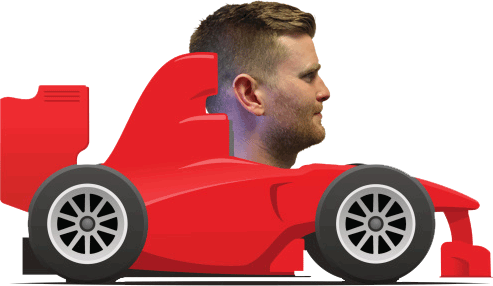
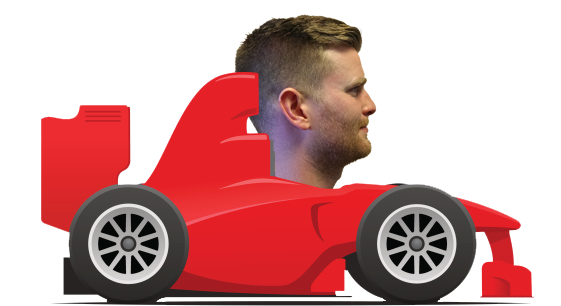
Game
Game and updated imagery.

diff --git a/public/css/styles.css b/public/css/styles.css
@@ -1,1 +1,1 @@
-.headerPlayer,body{background-color:#3c4043}html{font-size:100%}#salesApp{text-align:center;color:#fff;line-height:1}.row{margin-bottom:15px}.headerPlayer{font-family:"Ao Oz"}.headerPlayer h1,.headerPlayer h2{font-weight:600}.headerPlayer .playerName{font-size:60px;font-size:3.75rem;margin-top:-15px;margin-bottom:25px}.headerPlayer .rank{display:inline-block;position:relative;font-size:150px;font-size:9.375rem}.headerPlayer .rank span{font-size:130px;font-size:8.125rem}.headerPlayer .rank .alertIcon{display:block;position:absolute;top:0;right:-55px}.headerPlayer .rank .alertIcon i{position:relative;vertical-align:top;font-size:40px;margin-top:20px;color:#7fba24;cursor:pointer}.headerPlayer .rank .alertIcon i:hover{color:#9ad938}.headerPlayer .rank .alertIcon i #alertCount{position:absolute;width:100%;top:10px;font-family:"Ao Oz";font-size:20px;font-size:1.25rem;font-weight:400;text-align:center;color:inherit}.podTitles{margin-bottom:10px;font-family:arial;font-size:20px;font-size:1.25rem}.largeNumber,.smallNumber{font-family:"Ao Oz";font-weight:600}.largeNumber{font-size:170px;font-size:10.625rem}.smallNumber{margin-bottom:10px;font-size:50px;font-size:3.125rem;text-align:right}.red{background-color:#ef4c4d}.green{background-color:#7fba24}
+.headerPlayer,body{background-color:#3c4043}html{font-size:100%}body{padding:0;margin:0}#salesApp{text-align:center;color:#fff;line-height:1}.row{margin-bottom:15px}.headerPlayer{font-family:"Ao Oz"}.headerPlayer h1,.headerPlayer h2{font-weight:600}.headerPlayer .playerName{font-size:60px;font-size:3.75rem;margin-top:-15px;margin-bottom:25px}.headerPlayer .rank{display:inline-block;position:relative;font-size:150px;font-size:9.375rem}.headerPlayer .rank span{font-size:130px;font-size:8.125rem}.headerPlayer .rank .alertIcon{display:block;position:absolute;top:0;right:-55px}.headerPlayer .rank .alertIcon i{position:relative;vertical-align:top;font-size:40px;margin-top:20px;color:#7fba24;cursor:pointer}.headerPlayer .rank .alertIcon i:hover{color:#9ad938}.headerPlayer .rank .alertIcon i #alertCount{position:absolute;width:100%;top:10px;font-family:"Ao Oz";font-size:20px;font-size:1.25rem;font-weight:400;text-align:center;color:inherit}.podTitles{margin-bottom:10px;font-family:arial;font-size:20px;font-size:1.25rem}.largeNumber,.smallNumber{font-family:"Ao Oz";font-weight:600}.largeNumber{font-size:170px;font-size:10.625rem}.smallNumber{margin-bottom:10px;font-size:50px;font-size:3.125rem;text-align:right}.red{background-color:#ef4c4d}.green{background-color:#7fba24}#aoGame{display:block;width:100vw;height:100vh;background:url(../images/track.jpg) center center no-repeat fixed;-webkit-background-size:cover;-moz-background-size:cover;-o-background-size:cover;background-size:cover}#aoGame *{box-sizing:border-box}.gameBoard{width:100%}.gameBoard .track{width:100%;height:200px;margin-bottom:16px}.gameBoard .car img{width:auto;height:150px;margin-top:20px}

diff --git a/game.html b/game.html
@@ -1,18 +1,52 @@
 <!DOCTYPE html>
 <html>
-<head>
-	<title>Game</title>
-</head>
-<body>
 
-<script src="/socket.io/socket.io.js"></script>
-<script type="text/javascript" src="js/root.min.js"></script>
-<script type="text/javascript" src="js/animator.min.js"></script>
-<script type="text/javascript">
-	var socket = io();
-	socket.on("userid", function(data) {
-	    console.log("socket id", data);
-	});
-</script>
+<head>
+    <title>Game</title>
+    <link rel="stylesheet" href="css/styles.css">
+</head>
+
+<body>
+    <main id="aoGame">
+        <div class="gameBoard">
+            <div class="track">
+                <div class="car">
+                    <img src="images/car-red.png" style="margin-left: 5px">
+                </div>
+            </div>
+            <div class="track">
+                <div class="car">
+                    <img src="images/car-red.png" style="margin-left: 25px">
+                </div>
+            </div>
+            <div class="track">
+                <div class="car">
+                    <img src="images/car-red.png" style="margin-left: 50px">
+                </div>
+            </div>
+            <div class="track">
+                <div class="car">
+                    <img src="images/car-red.png" style="margin-left: 75px">
+                </div>
+            </div>
+            <div class="track">
+                <div class="car">
+                    <img src="images/car-red.png" style="margin-left: 15px">
+                </div>
+            </div>
+        </div>
+        <div class="leaderBoard"></div>
+    </main>
+    <!--@NOTE Scripts below here...-->
+    <script src="/socket.io/socket.io.js"></script>
+    <script type="text/javascript" src="js/root.min.js"></script>
+    <script type="text/javascript" src="js/animator.min.js"></script>
+    <script type="text/javascript">
+        var socket = io();
+        socket.on("userid", function (data) {
+            console.log("socket id", data);
+        });
+    </script>
 </body>
+
 </html>

diff --git a/public/game.html b/public/game.html
@@ -1,18 +1,52 @@
 <!DOCTYPE html>
 <html>
-<head>
-	<title>Game</title>
-</head>
-<body>
 
-<script src="/socket.io/socket.io.js"></script>
-<script type="text/javascript" src="js/root.min.js"></script>
-<script type="text/javascript" src="js/animator.min.js"></script>
-<script type="text/javascript">
-	var socket = io();
-	socket.on("userid", function(data) {
-	    console.log("socket id", data);
-	});
-</script>
+<head>
+    <title>Game</title>
+    <link rel="stylesheet" href="css/styles.css">
+</head>
+
+<body>
+    <main id="aoGame">
+        <div class="gameBoard">
+            <div class="track">
+                <div class="car">
+                    <img src="images/car-red.png" style="margin-left: 5px">
+                </div>
+            </div>
+            <div class="track">
+                <div class="car">
+                    <img src="images/car-red.png" style="margin-left: 25px">
+                </div>
+            </div>
+            <div class="track">
+                <div class="car">
+                    <img src="images/car-red.png" style="margin-left: 50px">
+                </div>
+            </div>
+            <div class="track">
+                <div class="car">
+                    <img src="images/car-red.png" style="margin-left: 75px">
+                </div>
+            </div>
+            <div class="track">
+                <div class="car">
+                    <img src="images/car-red.png" style="margin-left: 15px">
+                </div>
+            </div>
+        </div>
+        <div class="leaderBoard"></div>
+    </main>
+    <!--@NOTE Scripts below here...-->
+    <script src="/socket.io/socket.io.js"></script>
+    <script type="text/javascript" src="js/root.min.js"></script>
+    <script type="text/javascript" src="js/animator.min.js"></script>
+    <script type="text/javascript">
+        var socket = io();
+        socket.on("userid", function (data) {
+            console.log("socket id", data);
+        });
+    </script>
 </body>
+
 </html>

diff --git a/styles/game.scss b/styles/game.scss
@@ -1,0 +1,30 @@
+#aoGame {
+    display: block;
+    width: 100vw;
+    height: 100vh;
+    background: url(../images/track.jpg) no-repeat center center fixed;
+    -webkit-background-size: cover;
+    -moz-background-size: cover;
+    -o-background-size: cover;
+    background-size: cover;
+}
+
+#aoGame * {
+    box-sizing: border-box;
+}
+
+.gameBoard {
+    width: 100%;
+    .track {
+        width: 100%;
+        height: 200px;
+        margin-bottom: 16px;
+    }
+    .car {
+        img {
+            width: auto;
+            height: 150px;
+            margin-top: 20px;
+        }
+    }
+}

diff --git a/styles/app.scss b/styles/app.scss
@@ -18,6 +18,8 @@ html {
 
 body {
     background-color: $grey;
+    padding: 0;
+    margin: 0;
 }
 
 #salesApp {
